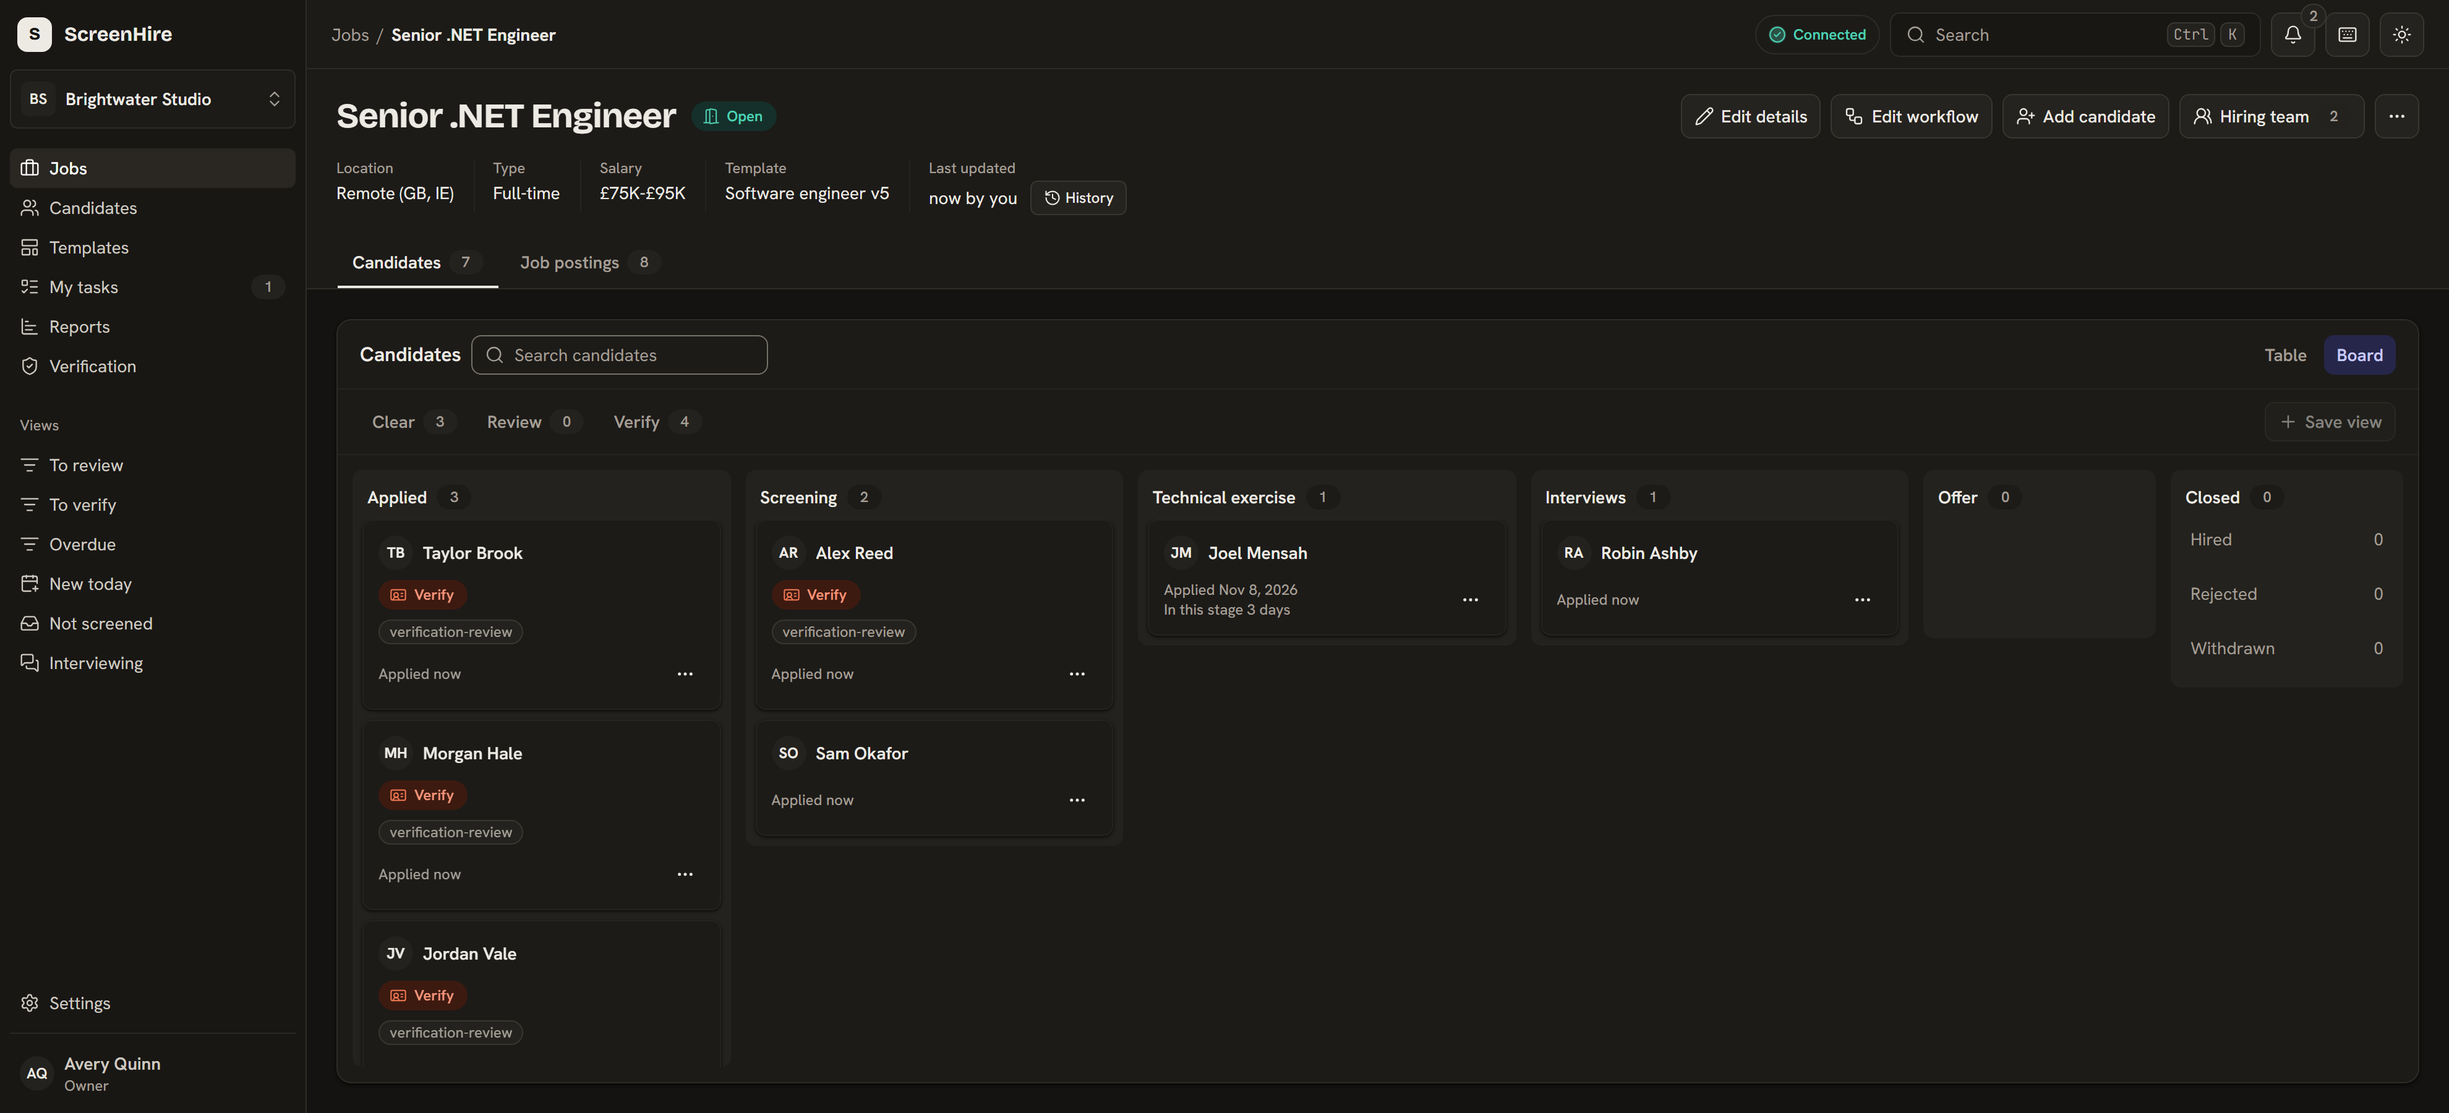
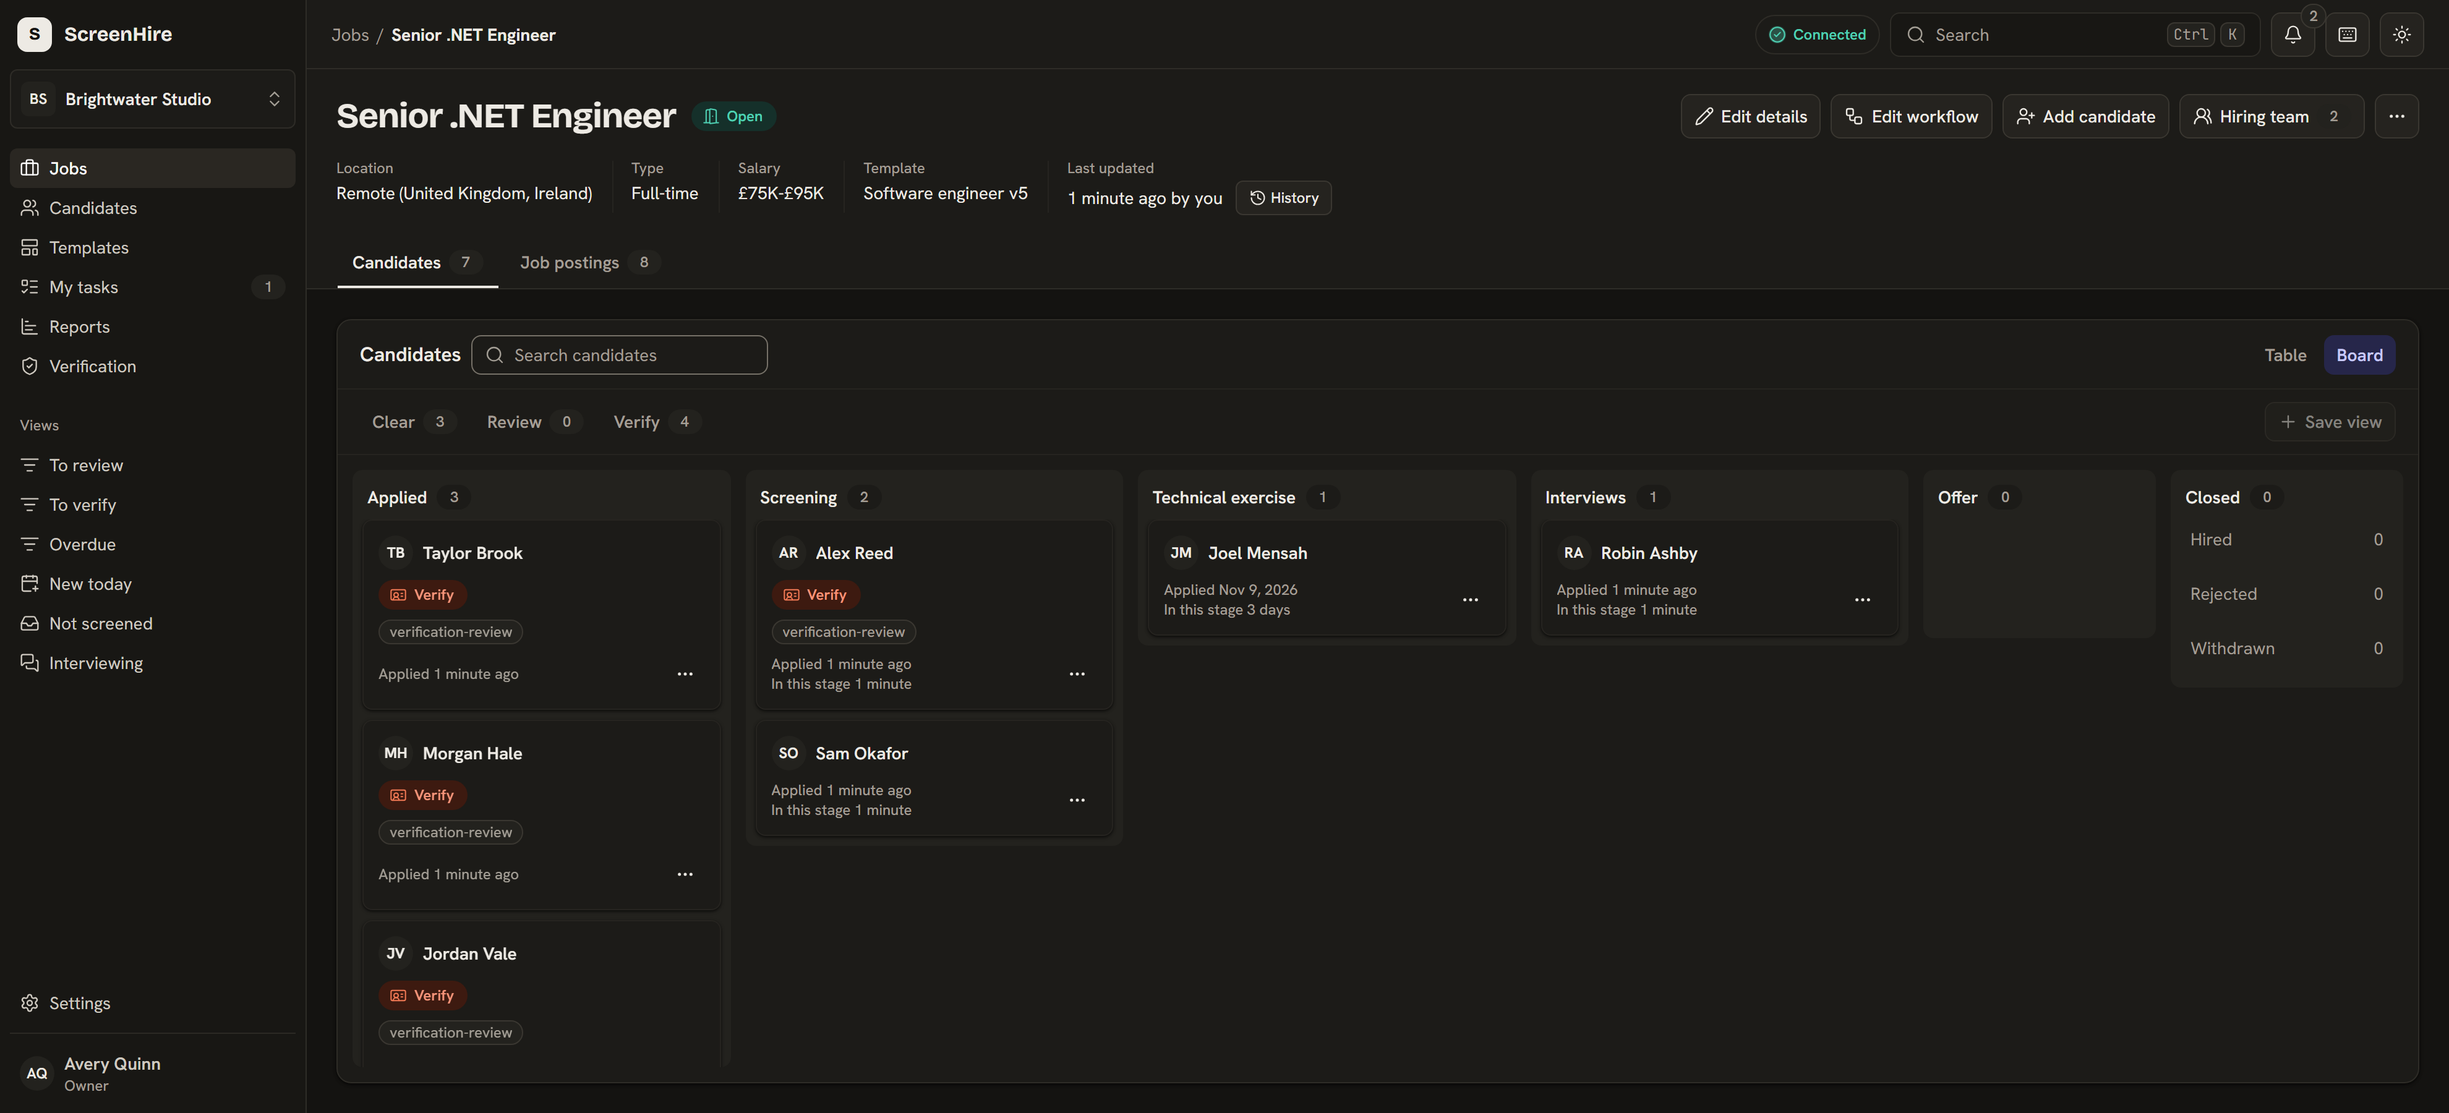
feat(jobs): show a country as a name, not a code, wherever a location is written (#159)
* feat(jobs): show a country as a name, not a code, wherever a location is written

JobLocation's label and the feeds share CountryNames, which reads .NET's RegionInfo
English names. Regions stay as given, an unknown code stays a code, and structured
data (JSON-LD, feed country fields) keeps the ISO code. Fixtures, tests, the design
system's example and the marketing pictures that show a location are updated.

* fix(review): one label for a place, and country names straight from CountryNames

JobLocation.Label() is the one "City, Region, Country name" line. Describe, the
job board API's office location and the feeds' PlaceText all use it, where
each built the same join. FeedXml.CountryName and NetworkAnalyzer.CountryName
only passed through to CountryNames.Name, so their callers call it directly.

* docs: country names in readable text, codes in structured fields

---------

diff --git a/apps/careers/src/lib/format.test.ts b/apps/careers/src/lib/format.test.ts
@@ -47,23 +47,23 @@ describe('formatSalary', () => {
 });
 
 describe('jobFacts', () => {
-  const job = { location: 'London, England, GB', workplaceType: 'Hybrid', employmentType: 'FullTime', salaryMin: 60_000, salaryMax: 75_000, salaryCurrency: 'GBP' };
+  const job = { location: 'London, England, United Kingdom', workplaceType: 'Hybrid', employmentType: 'FullTime', salaryMin: 60_000, salaryMax: 75_000, salaryCurrency: 'GBP' };
 
   it('lists place, contract and pay, in that order, and never more than three', () => {
-    expect(jobFacts(job)).toEqual(['London, England, GB (Hybrid)', 'Full-time', '£60k–£75k']);
+    expect(jobFacts(job)).toEqual(['London, England, United Kingdom (Hybrid)', 'Full-time', '£60k–£75k']);
     expect(jobFacts(job).length).toBeLessThanOrEqual(3);
   });
 
   it('leaves the pay out when there is none', () => {
-    expect(jobFacts({ ...job, salaryMin: null, salaryMax: null })).toEqual(['London, England, GB (Hybrid)', 'Full-time']);
+    expect(jobFacts({ ...job, salaryMin: null, salaryMax: null })).toEqual(['London, England, United Kingdom (Hybrid)', 'Full-time']);
   });
 
   it('names an on-site job by its address alone', () => {
-    expect(jobFacts({ ...job, workplaceType: 'Onsite' })).toEqual(['London, England, GB', 'Full-time', '£60k–£75k']);
+    expect(jobFacts({ ...job, workplaceType: 'Onsite' })).toEqual(['London, England, United Kingdom', 'Full-time', '£60k–£75k']);
   });
 
   it('does not say remote twice when the location already does', () => {
-    expect(jobFacts({ ...job, location: 'Remote (GB, IE)', workplaceType: 'Remote' })).toEqual(['Remote (GB, IE)', 'Full-time', '£60k–£75k']);
+    expect(jobFacts({ ...job, location: 'Remote (United Kingdom, Ireland)', workplaceType: 'Remote' })).toEqual(['Remote (United Kingdom, Ireland)', 'Full-time', '£60k–£75k']);
   });
 
   it('keeps the workplace type in the place when the location does not name it', () => {

diff --git a/apps/careers/src/components/job-card.test.ts b/apps/careers/src/components/job-card.test.ts
@@ -13,7 +13,7 @@ beforeAll(async () => {
 const job = {
   title: 'Service plumber',
   summary: 'Fix leaks, service boilers and fit bathrooms for homes across Leeds.',
-  location: 'Leeds, England, GB',
+  location: 'Leeds, England, United Kingdom',
   workplaceType: 'Onsite',
   employmentType: 'FullTime',
   salaryMin: 34_000,
@@ -32,7 +32,7 @@ describe('JobCard', () => {
     expect(html).toContain('href="/brightwater/jobs/service-plumber"');
     const title = html.indexOf('Service plumber');
     const summary = html.indexOf('Fix leaks, service boilers');
-    const firstChip = html.indexOf('Leeds, England, GB</span>');
+    const firstChip = html.indexOf('Leeds, England, United Kingdom</span>');
     expect(title).toBeGreaterThan(-1);
     expect(summary).toBeGreaterThan(title);
     expect(firstChip).toBeGreaterThan(summary);
@@ -55,7 +55,7 @@ describe('JobCard', () => {
     const html = await render({ workplaceType: 'Hybrid' });
 
     const chips = [...html.matchAll(/<span class="[^"]*\bbg-candidate-chip\b[^"]*">([^<]*)<\/span>/g)].map((match) => match[1]);
-    expect(chips).toEqual(['Leeds, England, GB (Hybrid)', 'Full-time', '£34k–£40k']);
+    expect(chips).toEqual(['Leeds, England, United Kingdom (Hybrid)', 'Full-time', '£34k–£40k']);
   });
 
   it('draws no summary line when the job has none', async () => {

diff --git a/apps/dashboard/src/routes/(app)/jobs-page.test.ts b/apps/dashboard/src/routes/(app)/jobs-page.test.ts
@@ -54,7 +54,7 @@ describe('jobs page', () => {
       // A count or a date that never arrived (nothing here answers the applications request) is blank, and says nothing to
       // a screen reader either: "No candidates" would claim what nobody knows.
       ['Draft', 'Customer Success Lead', '', '', 'Manchester, UK', 'Full-time', 'Oct 19, 2026', ''],
-      ['Open', 'Senior .NET Engineer', '', '', 'Remote (GB, IE)', 'Full-time', 'Oct 18, 2026', ''],
+      ['Open', 'Senior .NET Engineer', '', '', 'Remote (United Kingdom, Ireland)', 'Full-time', 'Oct 18, 2026', ''],
     ]);
     expect(screen.getByRole('link', { name: 'Senior .NET Engineer' })).toHaveAttribute('href', `/jobs/${jobs[1]!.id}`);
     expect(screen.getByRole('heading', { level: 1 })).toHaveTextContent('Jobs');

diff --git a/apps/careers/src/lib/format.ts b/apps/careers/src/lib/format.ts
@@ -27,8 +27,8 @@ export function formatSalary(min?: number | null, max?: number | null, currency?
 }
 
 /**
- * The chips a job shows: at most three, in order. Place (the workplace type goes into it, as "London, GB (Hybrid)",
- * unless the job is on-site or the location already says so, as "Remote (GB, IE)" does), the kind of contract, and the
+ * The chips a job shows: at most three, in order. Place (the workplace type goes into it, as "London, United Kingdom (Hybrid)",
+ * unless the job is on-site or the location already says so, as "Remote (United Kingdom, Ireland)" does), the kind of contract, and the
  * pay when there is one.
  */
 export function jobFacts(job: {

diff --git a/apps/dashboard/src/routes/(app)/jobs/[jobId]/job-page.test.ts b/apps/dashboard/src/routes/(app)/jobs/[jobId]/job-page.test.ts
@@ -22,7 +22,7 @@ const job = {
   workplaceType: 'Remote',
   locations: [],
   applicantLocationRequirements: ['GB', 'IE'],
-  location: 'Remote (GB, IE)',
+  location: 'Remote (United Kingdom, Ireland)',
   salary: { min: 70000, max: 90000, currency: 'GBP', period: 'Year' },
   validThrough: null,
   workflow: { stages, questionnaire: { questions: [] }, automations: [] },

diff --git a/apps/dashboard/src/test-support/fixtures.ts b/apps/dashboard/src/test-support/fixtures.ts
@@ -119,7 +119,7 @@ export const jobs: JobSummary[] = [
     id: '01a157d4-0000-7000-8000-000000000002',
     title: 'Senior .NET Engineer',
     slug: 'senior-dotnet-engineer',
-    location: 'Remote (GB, IE)',
+    location: 'Remote (United Kingdom, Ireland)',
     workplaceType: 'Remote',
     status: 'Open',
     createdAt: '2026-10-18T09:00:00Z',

diff --git a/apps/careers/src/lib/job-posting.test.ts b/apps/careers/src/lib/job-posting.test.ts
@@ -12,7 +12,7 @@ const job = (overrides: Partial<PublicJob> = {}): PublicJob => ({
   id: '0199f0c4-0000-7000-8000-000000000001',
   title: 'Engineer',
   slug: 'engineer',
-  location: 'London, GB',
+  location: 'London, United Kingdom',
   workplaceType: 'Onsite',
   employmentType: 'FullTime',
   salaryMin: 50000,

diff --git a/src/ScreenHire.Application/Verification/NetworkAnalyzer.cs b/src/ScreenHire.Application/Verification/NetworkAnalyzer.cs
@@ -1,5 +1,6 @@
 using System.Globalization;
 using System.Net;
+using ScreenHire.Domain.Jobs;
 using ScreenHire.Domain.Verification;
 using ScreenHire.Infrastructure.Verification;
 
@@ -62,7 +63,7 @@ public sealed class NetworkAnalyzer(IIpIntelligence intelligence) : IVerificatio
             {
                 counter.Add(new CounterEvidence(
                     $"The exit is in {InSentence(claimed)}, the country the candidate's phone number belongs to.",
-                    SignalEvidence.Fact("Phone number country", CountryName(claimed))));
+                    SignalEvidence.Fact("Phone number country", CountryNames.Name(claimed))));
             }
 
             signals.Add(new ObservedSignal(
@@ -88,30 +89,17 @@ public sealed class NetworkAnalyzer(IIpIntelligence intelligence) : IVerificatio
             signals.Add(new ObservedSignal(
                 SignalCatalogue.GeoClaimMismatch,
                 SignalConfidence.Medium,
-                [SignalEvidence.Fact("Phone number country", CountryName(claimed)), SignalEvidence.Fact("Network country", CountryName(observed)), source],
+                [SignalEvidence.Fact("Phone number country", CountryNames.Name(claimed)), SignalEvidence.Fact("Network country", CountryNames.Name(observed)), source],
                 new Dictionary<string, string> { ["claimed"] = InSentence(claimed), ["observed"] = InSentence(observed) }));
         }
 
         return Task.FromResult(new AnalyzerResult(signals));
     }
 
-    /// <summary>A country's English name from its ISO code, or the code itself when .NET does not know it.</summary>
-    public static string CountryName(string code)
-    {
-        try
-        {
-            return new RegionInfo(code).EnglishName;
-        }
-        catch (ArgumentException)
-        {
-            return code;
-        }
-    }
-
     /// <summary>A country's name as it reads inside a sentence: "the United Kingdom", "Ireland".</summary>
     public static string InSentence(string code)
     {
-        var name = CountryName(code);
+        var name = CountryNames.Name(code);
         return name.StartsWith("United ", StringComparison.Ordinal) || name.EndsWith(" Republic", StringComparison.Ordinal)
             || name is "Netherlands" or "Philippines" or "Bahamas" or "Gambia" or "Maldives"
             ? $"the {name}"
@@ -119,7 +107,7 @@ public sealed class NetworkAnalyzer(IIpIntelligence intelligence) : IVerificatio
     }
 
     private static IEnumerable<SignalEvidence> Country(IpLookup lookup) =>
-        lookup.Country is { } country ? [SignalEvidence.Fact("Network country", CountryName(country))] : [];
+        lookup.Country is { } country ? [SignalEvidence.Fact("Network country", CountryNames.Name(country))] : [];
 
     private static string Describe(IpLookup lookup) => (lookup.Organization, lookup.Asn) switch
     {

diff --git a/tests/ScreenHire.UnitTests/Jobs/JobLifecycleTests.cs b/tests/ScreenHire.UnitTests/Jobs/JobLifecycleTests.cs
@@ -311,13 +311,38 @@ public sealed class JobLifecycleTests
     }
 
     [Theory]
-    [InlineData(WorkplaceType.Remote, "Remote (GB, IE)")]
-    [InlineData(WorkplaceType.Hybrid, "London, England, GB; Leeds, GB")]
-    public void The_location_label_reads_from_the_structured_fields(WorkplaceType workplace, string expected)
+    [InlineData(WorkplaceType.Remote, "Remote (United Kingdom, Ireland)")]
+    [InlineData(WorkplaceType.Hybrid, "London, England, United Kingdom; Leeds, United Kingdom")]
+    public void The_location_label_names_the_country_and_keeps_the_region_as_given(WorkplaceType workplace, string expected)
     {
         JobLocation[] locations = [new("London", "England", "GB"), new("Leeds", null, "GB")];
 
         JobLocation.Describe(workplace, locations, ["GB", "IE"]).Should().Be(expected);
+    }
+
+    [Fact]
+    public void The_location_label_covers_a_city_alone_one_remote_country_and_no_remote_countries()
+    {
+        JobLocation.Describe(WorkplaceType.Onsite, [new("Leeds", null, "GB")], []).Should().Be("Leeds, United Kingdom");
+        JobLocation.Describe(WorkplaceType.Onsite, [new(null, null, "US")], []).Should().Be("United States");
+        JobLocation.Describe(WorkplaceType.Remote, [], ["IE"]).Should().Be("Remote (Ireland)");
+        JobLocation.Describe(WorkplaceType.Remote, [], []).Should().Be("Remote");
+    }
+
+    [Fact]
+    public void The_location_label_falls_back_to_the_code_for_a_country_it_does_not_know_and_skips_a_missing_one()
+    {
+        JobLocation.Describe(WorkplaceType.Onsite, [new("Nowhere", null, "ZZ")], []).Should().Be("Nowhere, ZZ");
+        JobLocation.Describe(WorkplaceType.Remote, [], ["GB", "ZZ"]).Should().Be("Remote (United Kingdom, ZZ)");
+        JobLocation.Describe(WorkplaceType.Onsite, [new("Leeds", null, null)], []).Should().Be("Leeds");
+    }
+
+    [Fact]
+    public void One_place_reads_as_its_set_parts_with_the_country_named()
+    {
+        new JobLocation("London", "England", "GB").Label().Should().Be("London, England, United Kingdom");
+        new JobLocation(null, "Leinster", " ie ").Label().Should().Be("Leinster, Ireland");
+        new JobLocation(null, null, null).Label().Should().BeEmpty();
     }
 
     private static HiringTemplateDefinition Definition(string firstStage) =>

diff --git a/src/ScreenHire.Domain/Jobs/JobLocation.cs b/src/ScreenHire.Domain/Jobs/JobLocation.cs
@@ -7,18 +7,25 @@ namespace ScreenHire.Domain.Jobs;
 public sealed record JobLocation(string? City, string? Region, string? Country)
 {
     /// <summary>
-    /// A one-line label for lists and page titles, such as "London, England, GB" or "Remote (GB, IE)". Structured data
-    /// (JSON-LD, feeds) uses the fields, never this.
+    /// A one-line label for lists and page titles, such as "London, England, United Kingdom" or "Remote (United Kingdom,
+    /// Ireland)": countries are names, regions stay as given, and a code .NET does not know stays a code. Structured
+    /// data (JSON-LD, feeds) uses the fields and the ISO code, never this.
     /// </summary>
     public static string Describe(WorkplaceType workplaceType, IReadOnlyList<JobLocation> locations, IReadOnlyList<string> applicantLocationRequirements)
     {
         if (workplaceType == WorkplaceType.Remote)
         {
-            return applicantLocationRequirements.Count == 0 ? "Remote" : $"Remote ({string.Join(", ", applicantLocationRequirements)})";
+            return applicantLocationRequirements.Count == 0 ? "Remote" : $"Remote ({string.Join(", ", applicantLocationRequirements.Select(CountryNames.Name))})";
         }
 
-        return string.Join("; ", locations.Select(l => string.Join(", ", new[] { l.City, l.Region, l.Country }.Where(p => !string.IsNullOrWhiteSpace(p)))));
+        return string.Join("; ", locations.Select(l => l.Label()));
     }
+
+    /// <summary>
+    /// This place on one line, such as "London, England, United Kingdom": the parts that are set, with the country as its
+    /// English name.
+    /// </summary>
+    public string Label() => string.Join(", ", new[] { City, Region, CountryNames.Name(Country) }.Where(p => !string.IsNullOrWhiteSpace(p)));
 }
 
 /// <summary>What a salary figure is per: schema.org <c>unitText</c>.</summary>

diff --git a/src/ScreenHire.Application/Distribution/Feeds/FeedFormats.cs b/src/ScreenHire.Application/Distribution/Feeds/FeedFormats.cs
@@ -90,7 +90,7 @@ public sealed class CareerjetFeedAdapter(TimeProvider time) : FeedAdapter(time)
             new XElement("location",
                 Data("city", city),
                 Data("region", region),
-                Data("country", CountryName(country))),
+                Data("country", CountryNames.Name(country))),
             Data("company", content.OrganizationName),
             Data("description", job.Description),
             Data("contract_type", job.EmploymentType switch
@@ -153,7 +153,7 @@ public sealed class TalentFeedAdapter(TimeProvider time) : FeedAdapter(time)
             Data("company", content.OrganizationName),
             Required("city", city),
             Required("state", region),
-            Data("country", CountryName(country)),
+            Data("country", CountryNames.Name(country)),
             Data("dateposted", Iso(content.DatePosted)),
             Data("url", BoardUrls.Tag(content.Url, BoardId)),
             Data("description", job.Description),
@@ -217,7 +217,7 @@ public sealed class AdzunaFeedAdapter(TimeProvider time) : FeedAdapter(time)
             Plain("id", content.JobId.ToString()),
             Data("description", job.Description),
             Data("url", BoardUrls.Tag(content.Url, BoardId)),
-            Data("location", city ?? region ?? (job.WorkplaceType == WorkplaceType.Remote ? "Remote" : CountryName(country))),
+            Data("location", city ?? region ?? (job.WorkplaceType == WorkplaceType.Remote ? "Remote" : CountryNames.Name(country))),
             // Adzuna's list of codes says UK, not GB.
             Plain("country", country == "GB" ? "UK" : country),
             Data("salary", SalaryText(job.Salary)),

diff --git a/src/ScreenHire.Application/Distribution/Feeds/FeedAdapter.cs b/src/ScreenHire.Application/Distribution/Feeds/FeedAdapter.cs
@@ -92,25 +92,6 @@ internal static class FeedXml
 
     public static string Number(decimal value) => value.ToString("0.##", CultureInfo.InvariantCulture);
 
-    /// <summary>The English name of an ISO 3166-1 alpha-2 country, such as <c>United Kingdom</c> for <c>GB</c>.</summary>
-    public static string CountryName(string? code)
-    {
-        if (string.IsNullOrWhiteSpace(code))
-        {
-            return "";
-        }
-
-        try
-        {
-            return new RegionInfo(code).EnglishName;
-        }
-        catch (ArgumentException)
-        {
-            // An unknown code, or a runtime without region data: the code is still meaningful to a board.
-            return code;
-        }
-    }
-
     /// <summary>
     /// Where the job is, for one-line location fields: the first location, or for a remote job the first country
     /// candidates may work from.
@@ -131,8 +112,7 @@ internal static class FeedXml
     public static string PlaceText(JobSnapshot snapshot)
     {
         var (city, region, country) = Place(snapshot);
-        var parts = new[] { city, region, CountryName(country) }.Where(p => !string.IsNullOrWhiteSpace(p));
-        var text = string.Join(", ", parts);
+        var text = new JobLocation(city, region, country).Label();
         return snapshot.WorkplaceType == WorkplaceType.Remote ? (text.Length == 0 ? "Remote" : $"Remote ({text})") : text;
     }
 
